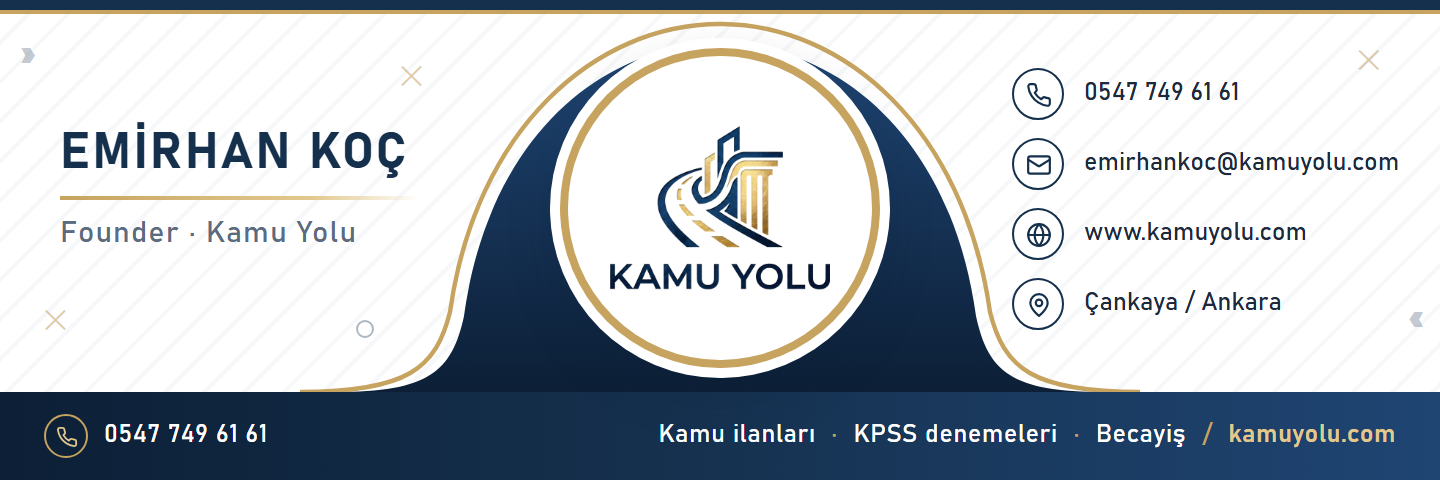
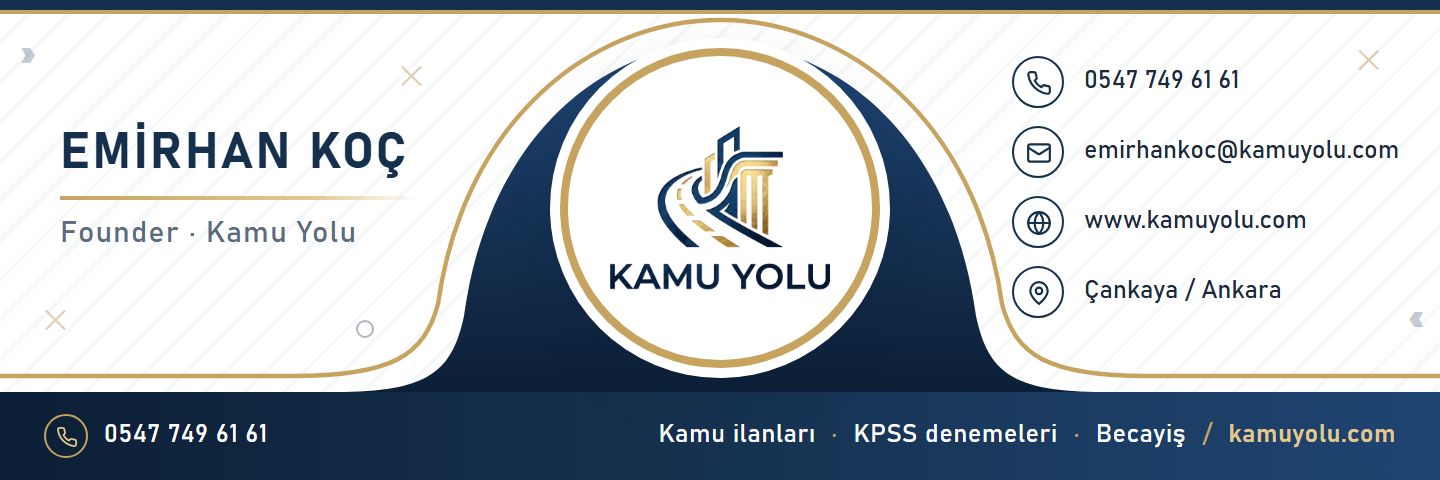
E-posta imzası: altın kontur kesintisiz
Tasarım 1: kontur bant üstünden tüm genişlikte akar; Tasarım 2: sol gövde + alt bant tek L, kesişme yok.

Changed region(s): [[0.0, 0.0312, 1.0, 0.8438], [0.6875, 0.125, 0.875, 0.25]]

diff --git a/docs/eposta-imza/tasarim.html b/docs/eposta-imza/tasarim.html
@@ -63,7 +63,7 @@
       <linearGradient id="tg1" x1="0" y1="0" x2="0" y2="1"><stop offset="0" stop-color="#1f4573"/><stop offset="1" stop-color="#0c1f36"/></linearGradient>
     </defs>
     <path d="M168 196 C214 196 226 186 232 158 C244 70 300 22 360 22 C420 22 476 70 488 158 C494 186 506 196 552 196 Z" fill="url(#tg1)"/>
-    <path d="M150 196 C204 196 218 184 225 156 C238 64 298 12 360 12 C422 12 482 64 495 156 C502 184 516 196 570 196" fill="none" stroke="#c6a35f" stroke-width="2.2"/>
+    <path d="M0 188 H146 C196 188 212 178 219 152 C232 60 296 10 360 10 C424 10 488 60 501 152 C508 178 524 188 574 188 H720" fill="none" stroke="#c6a35f" stroke-width="2.2" stroke-linecap="round"/>
   </svg>
   <div class="daire" style="left:284px;top:28px;width:152px;height:152px;z-index:2"><img src="logo.png" alt=""></div>
 
@@ -73,7 +73,7 @@
     <div class="unvan">Founder · Kamu Yolu</div>
   </div>
 
-  <div class="iletisim" style="left:506px;top:34px">
+  <div class="iletisim" style="left:506px;top:28px">
     <div class="satir"><span class="ikon"><svg><use href="#tel"/></svg></span>0547 749 61 61</div>
     <div class="satir"><span class="ikon"><svg><use href="#posta"/></svg></span>emirhankoc@kamuyolu.com</div>
     <div class="satir"><span class="ikon"><svg><use href="#web"/></svg></span>www.kamuyolu.com</div>
@@ -102,11 +102,9 @@
       <linearGradient id="tg3" x1="0" y1="0" x2="1" y2="0"><stop offset="0" stop-color="#15304d"/><stop offset="1" stop-color="#1f4573"/></linearGradient>
     </defs>
     <!-- sol lacivert govde: logonun arkasinda yukari kivrilan sekil -->
-    <path d="M0 0 H150 C215 0 248 40 248 110 C248 175 262 205 320 240 H0 Z" fill="url(#tg2)"/>
-    <path d="M150 0 C222 0 258 42 258 110 C258 172 272 204 334 240" fill="none" stroke="#c6a35f" stroke-width="2.2"/>
+    <path d="M0 0 H150 C215 0 248 40 248 110 C248 162 282 200 342 200 H720 V240 H0 Z" fill="url(#tg2)"/>
+    <path d="M150 0 C222 0 258 42 258 110 C258 156 290 191 346 191 H720" fill="none" stroke="#c6a35f" stroke-width="2.2" stroke-linecap="round"/>
     <!-- sag alt bant -->
-    <path d="M330 240 C352 214 372 200 404 200 H720 V240 Z" fill="url(#tg3)"/>
-    <path d="M314 240 C338 210 360 194 400 194 H720" fill="none" stroke="#c6a35f" stroke-width="2"/>
   </svg>
   <div class="daire" style="left:36px;top:30px;width:168px;height:168px"><img src="logo.png" alt=""></div>
 

diff --git a/docs/eposta-imzasi.html b/docs/eposta-imzasi.html
@@ -18,7 +18,7 @@
 <table cellpadding="0" cellspacing="0" border="0" style="border-collapse:collapse;font-family:Arial,Helvetica,sans-serif">
   <tr>
     <td style="padding:0">
-      <a href="https://www.kamuyolu.com" style="text-decoration:none"><img src="https://www.kamuyolu.com/brand/eposta-imza-1.png?v=4" width="600" height="200" alt="Emirhan Koç · Founder, Kamu Yolu · 0547 749 61 61 · emirhankoc@kamuyolu.com · kamuyolu.com" style="display:block;border:0;width:600px;height:200px"></a>
+      <a href="https://www.kamuyolu.com" style="text-decoration:none"><img src="https://www.kamuyolu.com/brand/eposta-imza-1.png?v=5" width="600" height="200" alt="Emirhan Koç · Founder, Kamu Yolu · 0547 749 61 61 · emirhankoc@kamuyolu.com · kamuyolu.com" style="display:block;border:0;width:600px;height:200px"></a>
     </td>
   </tr>
   <tr>
@@ -35,7 +35,7 @@
 <table cellpadding="0" cellspacing="0" border="0" style="border-collapse:collapse;font-family:Arial,Helvetica,sans-serif">
   <tr>
     <td style="padding:0">
-      <a href="https://www.kamuyolu.com" style="text-decoration:none"><img src="https://www.kamuyolu.com/brand/eposta-imza-2.png?v=4" width="600" height="200" alt="Emirhan Koç · Founder, Kamu Yolu · 0547 749 61 61 · emirhankoc@kamuyolu.com · kamuyolu.com" style="display:block;border:0;width:600px;height:200px"></a>
+      <a href="https://www.kamuyolu.com" style="text-decoration:none"><img src="https://www.kamuyolu.com/brand/eposta-imza-2.png?v=5" width="600" height="200" alt="Emirhan Koç · Founder, Kamu Yolu · 0547 749 61 61 · emirhankoc@kamuyolu.com · kamuyolu.com" style="display:block;border:0;width:600px;height:200px"></a>
     </td>
   </tr>
   <tr>
